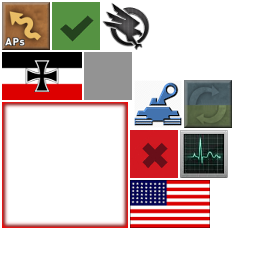
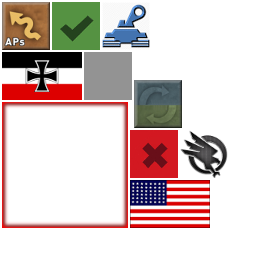
remove order.png

Changed region(s): [[0.5, 0.3125, 0.9062, 0.7188], [0.375, 0.0, 0.5938, 0.1875]]

diff --git a/core/src/ch/asynk/tankontank/game/hud/ActionButtons.java b/core/src/ch/asynk/tankontank/game/hud/ActionButtons.java
@@ -15,10 +15,9 @@ public class ActionButtons extends Bg
     public enum Buttons {
         NONE(-1, 0),
         PROMOTE(0, 1),
-        ORDER(1, 2),
-        DONE(2, 4),
-        ABORT(3, 8),
-        LAST(4, 0);
+        DONE(1, 2),
+        ABORT(2, 4),
+        LAST(3, 0);
 
         Buttons(int i, int b)
         {
@@ -49,12 +48,9 @@ public class ActionButtons extends Bg
         this.buttons = new Bg[Buttons.LAST.i];
         this.buttons[Buttons.DONE.i] = new Bg(atlas.findRegion("ok"));
         this.buttons[Buttons.ABORT.i] = new Bg(atlas.findRegion("cancel"));
-        this.buttons[Buttons.ORDER.i] = new Bg(atlas.findRegion("order"));
         this.buttons[Buttons.PROMOTE.i] = new Bg(atlas.findRegion("promote"));
 
         this.states = new StateType[Buttons.LAST.i];
-        // FIXME
-        // this.states[Buttons.ORDER.i] = StateType.ORDER;
         this.states[Buttons.PROMOTE.i] = StateType.PROMOTE;
         this.states[Buttons.DONE.i] = StateType.DONE;
         this.states[Buttons.ABORT.i] = StateType.ABORT;
